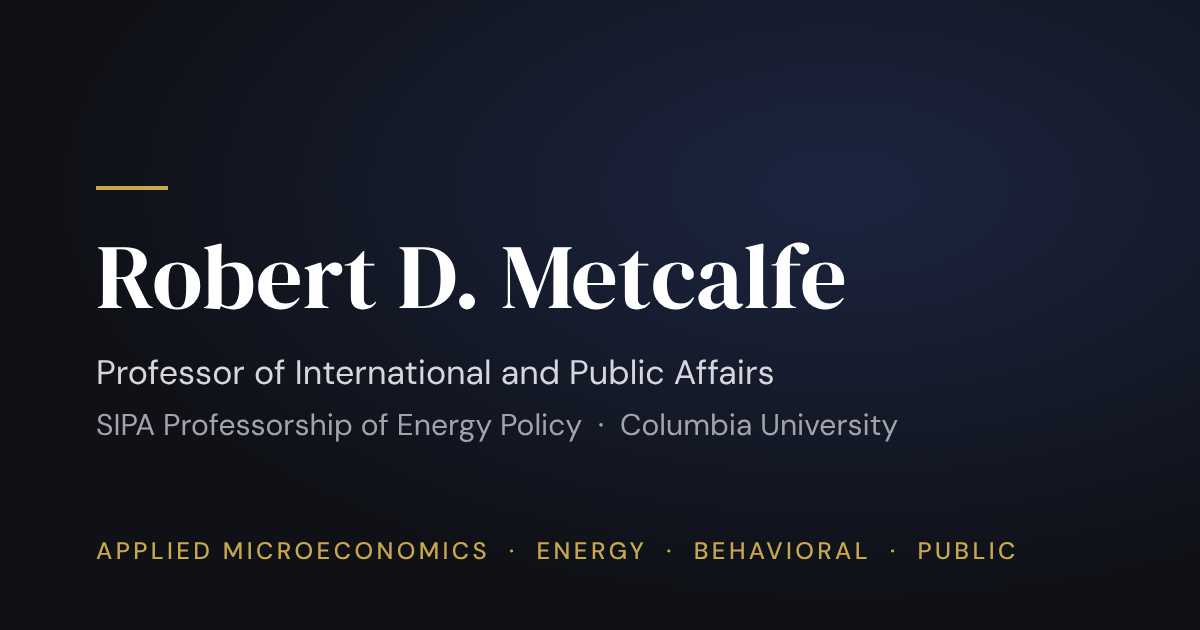
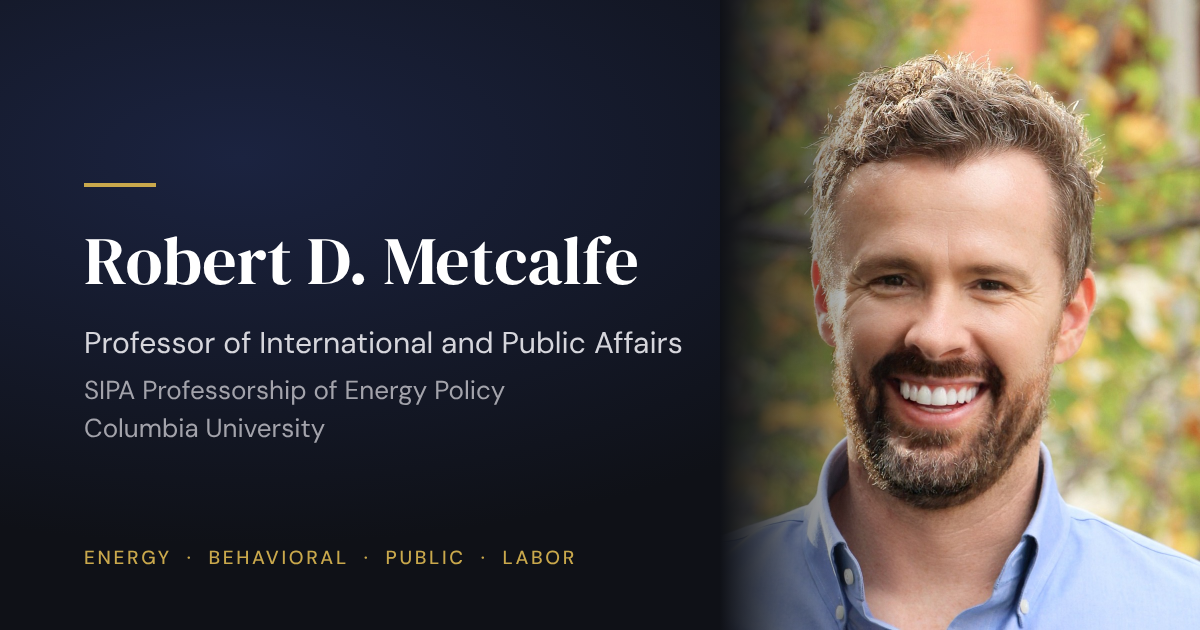
Host headshot in repo; add photo to link-preview card
Claude-Session: https://claude.ai/code/session_0119NZ7TkCtD2bU7MeeDCrJe

diff --git a/index.html b/index.html
@@ -540,7 +540,7 @@
   <div class="hero-inner">
     <div class="hero-photo-wrap">
       <img class="hero-photo"
-        src="https://static.wixstatic.com/media/fe9abe_976e33c950044abe86fa0b29d86fcf81~mv2.jpg/v1/crop/x_284,y_0,w_1387,h_1955/fill/w_270,h_380,al_c,q_80,usm_0.66_1.00_0.01,enc_avif,quality_auto/RM%20Picture%20Feb2024_edited.jpg"
+        src="headshot.jpg" width="270" height="380"
         alt="Professor Robert D. Metcalfe" />
     </div>
     <div class="hero-text">
